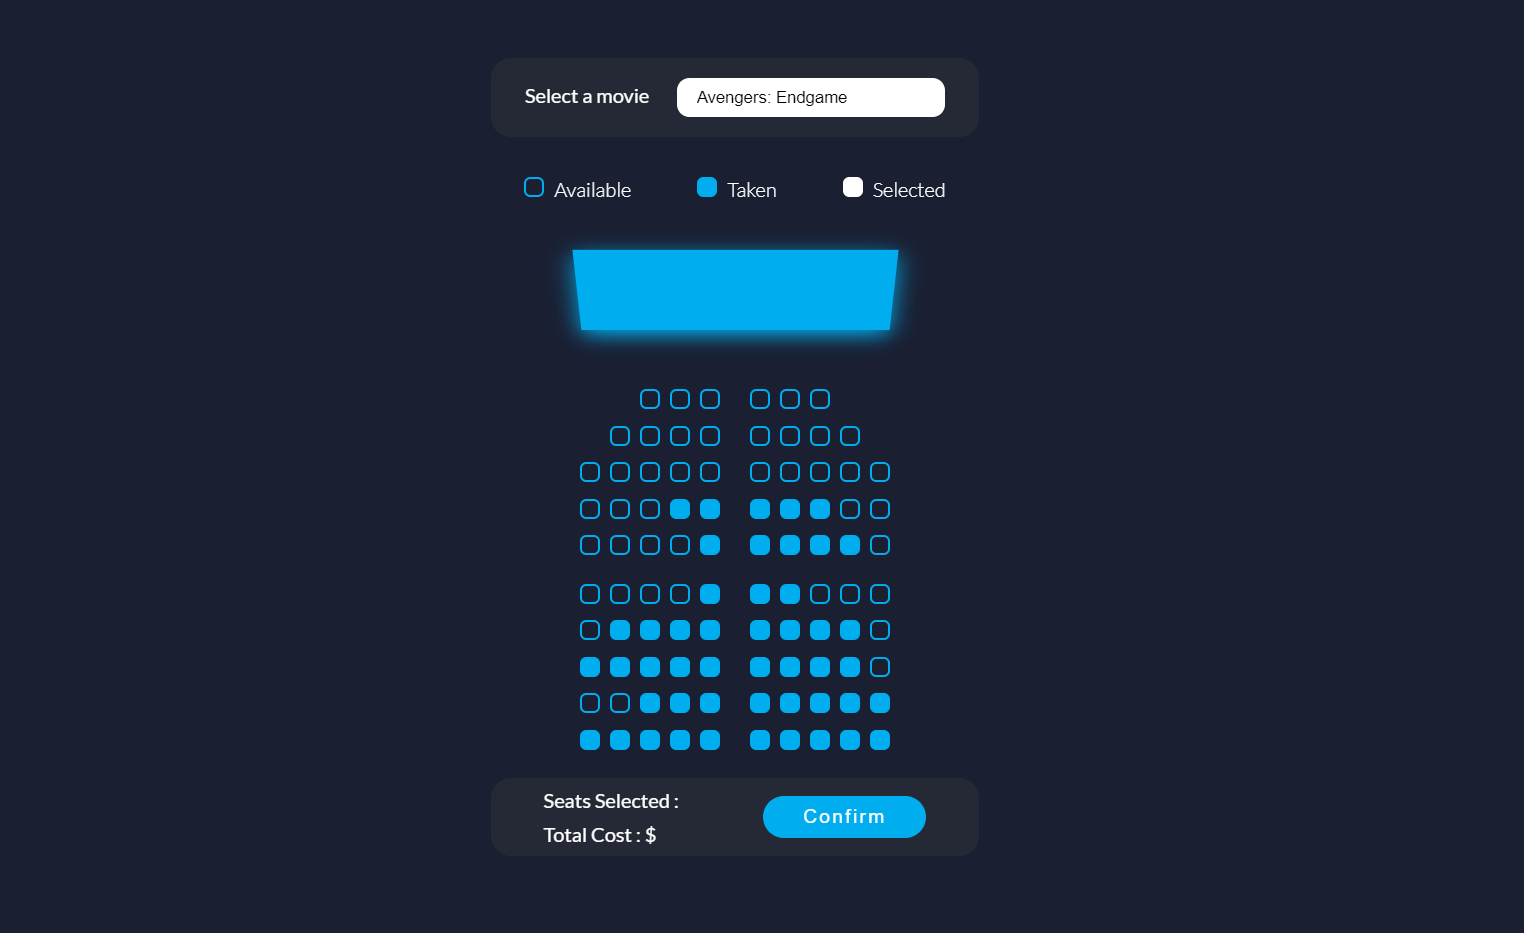
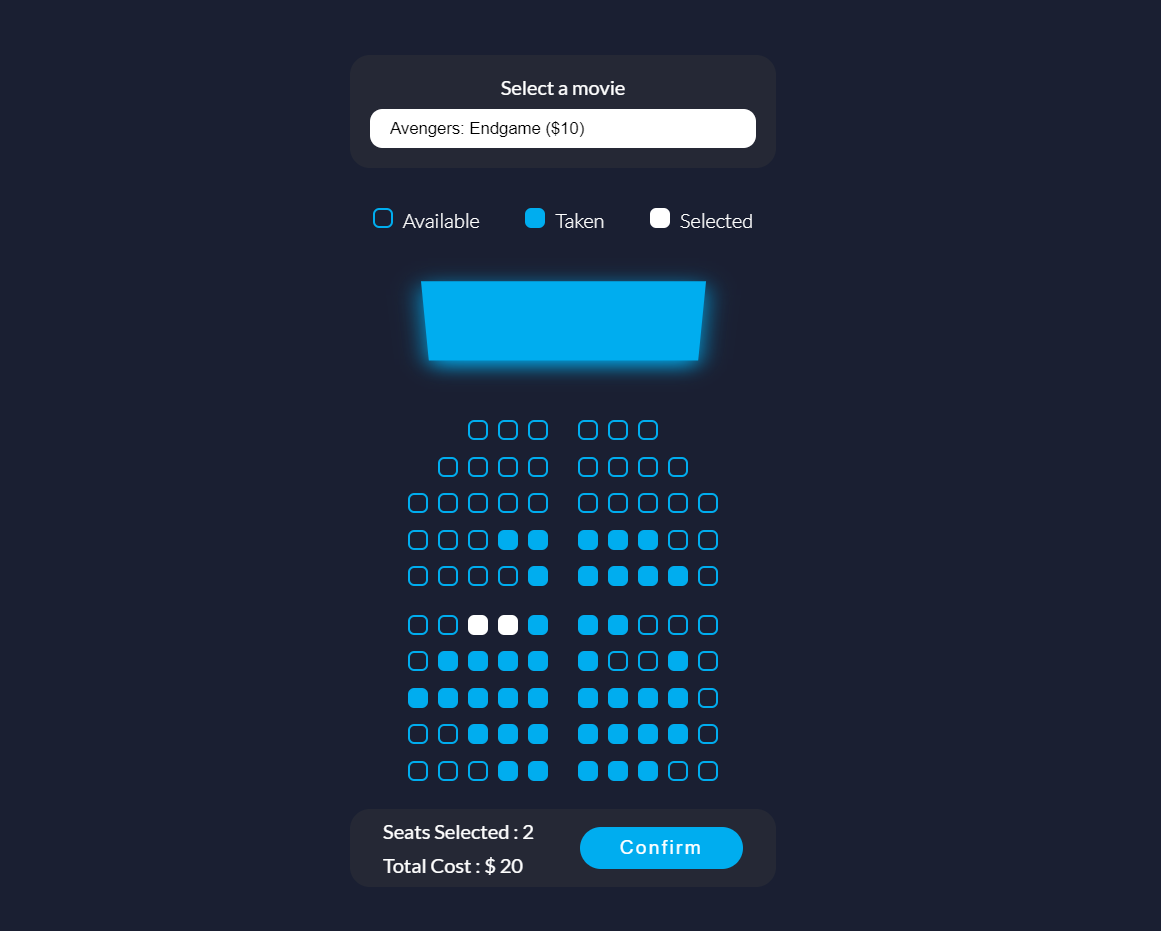
Refactoring app.js

Changed region(s): [[0.3101, 0.0623, 0.6512, 0.9345]]

diff --git a/12 - Movie Ticket Booking/index.html b/12 - Movie Ticket Booking/index.html
@@ -12,10 +12,10 @@
         <div class="movie-ticket">
             <p>Select a movie</p>
             <select name="movie" id="movie">
-                <option value="10">Avengers: Endgame</option>
-                <option value="9">Spider-Man: Far from Home</option>
-                <option value="10">Harry Potter and the Philosopher's Stone</option>
-                <option value="12">The Hobbit: An Unexpected Journey</option>
+                <option value="10">Avengers: Endgame ($10)</option>
+                <option value="9">Spider-Man: Far from Home $(9)</option>
+                <option value="10">Harry Potter and the Philosopher's Stone $(10)</option>
+                <option value="12">The Hobbit: An Unexpected Journey $(12)</option>
             </select>
         </div>
         <div class="seat__availability">
@@ -113,8 +113,8 @@
                 <div class="seat seat-taken"></div>
                 <div class="seat seat-taken"></div>
                 <div class="seat seat-taken"></div>
-                <div class="seat seat-taken"></div>
-                <div class="seat seat-taken"></div>
+                <div class="seat"></div>
+                <div class="seat"></div>
                 <div class="seat seat-taken"></div>
                 <div class="seat"></div>
             </div>
@@ -140,25 +140,25 @@
                 <div class="seat seat-taken"></div>
                 <div class="seat seat-taken"></div>
                 <div class="seat seat-taken"></div>
-                <div class="seat seat-taken"></div>
+                <div class="seat"></div>
             </div>
             <div class="row">
+                <div class="seat"></div>
+                <div class="seat"></div>
+                <div class="seat"></div>
                 <div class="seat seat-taken"></div>
                 <div class="seat seat-taken"></div>
                 <div class="seat seat-taken"></div>
                 <div class="seat seat-taken"></div>
                 <div class="seat seat-taken"></div>
-                <div class="seat seat-taken"></div>
-                <div class="seat seat-taken"></div>
-                <div class="seat seat-taken"></div>
-                <div class="seat seat-taken"></div>
-                <div class="seat seat-taken"></div>
+                <div class="seat"></div>
+                <div class="seat"></div>
             </div>
         </div>
         <div class="booking__details">
             <div class="booking__cost">
                 <p>Seats Selected : <span class="seat__count"></span></p>
-                <p>Total Cost  : $<span class="total__cost"></span></p>
+                <p>Total Cost  : $ <span class="total__cost"></span></p>
             </div>
             <button>Confirm</button>
         </div>

diff --git a/12 - Movie Ticket Booking/script.js b/12 - Movie Ticket Booking/script.js
@@ -2,20 +2,10 @@ const seatArrangement = document.querySelector('.seat__arrangement');
 const seatCount = document.querySelector('.seat__count');
 const totalCost = document.querySelector('.total__cost');
 const select = document.querySelector('select');
+const allSeats = document.querySelectorAll('div.row .seat:not(.seat-taken)');
 const allRows = document.querySelectorAll('.row');
 let seatCost;
 let count;
-
-// adding IDs to rows and seats
-    allRows.forEach((row,index) => {
-        row.setAttribute('id',index);
-        const allSeatInRow = row.children;
-        Array.from(allSeatInRow).forEach((seat,index) => {
-            seat.setAttribute('id',index);
-        })
-    });
-
-
 
 // Updates Booking Details
 const updateBookingDetails = () => {
@@ -27,13 +17,10 @@ const updateBookingDetails = () => {
 
 // Get seats selected
 const getSeatsSelected = () => {
-    let seatLocationList = [];
-    let seatsSelected =  document.querySelectorAll('div.row .seat-selected');
-    seatsSelected.forEach(seat => {
-        const seatNum = seat.getAttribute('id');
-        const rowNum = seat.parentElement.getAttribute('id');
-        seatLocationList.push([rowNum,seatNum])
-    })  
+    let selectedSeats = document.querySelectorAll('div.row .seat-selected');
+    const seatLocationList = [...selectedSeats].map(seat => {
+        return [...allSeats].indexOf(seat);
+    }); 
     return seatLocationList;
 }
 
@@ -54,17 +41,15 @@ const updateLocalStorage = () => {
 const updateUI = () => {
     select.options.selectedIndex = +(JSON.parse(localStorage.getItem('selectedIndex')));
     const seatsSelectedAlready = JSON.parse(localStorage.getItem('seatsSelected'));
-    allRows.forEach((row,index) => {
-        seatsSelectedAlready.forEach(seatSelectedAlready => {
-            if(index === +seatSelectedAlready[0]){
-                const allSeatInRow = row.children;
-                Array.from(allSeatInRow).forEach((seat,i) => {
-                    if(i === +seatSelectedAlready[1])
-                        seat.classList.add('seat-selected');
-                })
+    console.log(seatsSelectedAlready);
+    console.log(allSeats);
+    if(seatsSelectedAlready != null && seatsSelectedAlready.length > 0){
+        allSeats.forEach((seat,index) => {
+            if(seatsSelectedAlready.indexOf(index) > -1){
+                seat.classList.add('seat-selected');
             }
-        })
-    });
+        });
+    }
 }
 
 // Event Listner

diff --git a/12 - Movie Ticket Booking/style.css b/12 - Movie Ticket Booking/style.css
@@ -35,8 +35,9 @@ body {
 .movie-ticket {
   background: var(--primary-dark-blue);
   display: flex;
-  align-items: baseline;
-  justify-content: space-around;
+  flex-direction: column;
+  align-items: center;
+  gap: 0.5rem;
   padding: 1rem;
   border-radius: 1rem;
 }
@@ -49,10 +50,10 @@ select {
   outline: none;
   border: none;
   border-radius: 10px;
-  padding: 0.5rem 0 0.5rem 1rem;
+  padding: 0.5rem 1rem;
   appearance: none;
   border: none;
-  width: 60%;
+  /* width: 60%; */
   font-size: 20x;
 }
 
